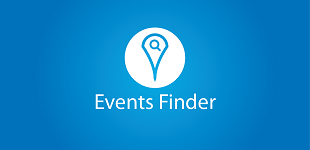
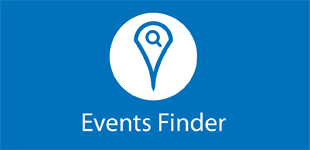
unified colours

Changed region(s): [[0.2613, 0.0267, 0.7258, 0.96]]

diff --git a/Event Finder Solution/Event Finder/Views/MainPage.xaml b/Event Finder Solution/Event Finder/Views/MainPage.xaml
@@ -36,11 +36,11 @@
 
             <ControlTemplate x:Key="PushPinStyle">
                 <UserControl  Height="150"  Width="150"  >
-                    <Border Height="130" Width="130" >
+                    <Border Height="111" Width="111" >
                         <Border.Background>
                             <ImageBrush Stretch="Fill" ImageSource="ms-appx:///Icons/pushpinleft.png"/>
                         </Border.Background>
-                        <Border Width="108.1" Height="106" Margin="0,0,-3,5"  CornerRadius="48" BorderThickness="7"  >
+                        <Border Width="110" Height="110" Margin="0,0,-3,5"  CornerRadius="48" BorderThickness="7"  >
                             <Border.Background>
                                 <ImageBrush ImageSource="{Binding pic_big}"/>
                             </Border.Background>
@@ -65,7 +65,7 @@
     </Page.Resources>
 
 
-    <Grid x:Name="MainGrid" Background="#0099CC">
+    <Grid x:Name="MainGrid" Background="#0071BB">
         <Grid.RowDefinitions>
             <RowDefinition Height="3*"/>
             <RowDefinition Height="29*"/>
@@ -76,7 +76,7 @@
 
         <Image Grid.Row="1"  HorizontalAlignment="Center" VerticalAlignment="Center" Height="53" Width="188" Source="ms-appx:///Icons/event_icon-01.png" Stretch="UniformToFill" Margin="589,10,589,633"/>
 
-        <Border Grid.Row="1" Grid.Column="0" Background="#FF1551C9" VerticalAlignment="Center" HorizontalAlignment="Center" Height="0" Margin="245,609,1121,87" Width="0"/>
+        <Border Grid.Row="1" Grid.Column="0" Background="#0071BB" VerticalAlignment="Center" HorizontalAlignment="Center" Height="0" Margin="245,609,1121,87" Width="0"/>
         <!--Progress Bar-->
         <ProgressBar x:Name="prog" MinWidth="1000"  HorizontalAlignment="Center" VerticalAlignment="Top" Foreground="White" Background="Transparent"  Height="20" MinHeight="8" FontSize="14" Width="{Binding ActualWidth, ElementName=MainGrid, Mode=OneWay}"  />
 
@@ -157,7 +157,7 @@
                                 <RowDefinition Height="60"/>
                                 <RowDefinition Height="*"/>
                             </Grid.RowDefinitions>
-                            <Border Background="#FF262323" Grid.RowSpan="2"  />
+                            <Border Background="#0071BB" Grid.RowSpan="2"  />
                             <TextBlock Text=" DESCRIPTION:" Grid.Row="0"  VerticalAlignment="Center"  FontSize="25" FontFamily="segoe UI light "/>
                             <ScrollViewer  Grid.Row="1" HorizontalScrollMode="Disabled">
                                 <TextBlock TextWrapping="Wrap" Width="210"   VerticalAlignment="Center" HorizontalAlignment="Center"  FontSize="20" ScrollViewer.VerticalScrollBarVisibility="Auto" Text="{Binding description}" FontFamily="segoe UI light "/>

diff --git a/Event Finder Solution/Event Finder/Views/LoginPage.xaml b/Event Finder Solution/Event Finder/Views/LoginPage.xaml
@@ -7,24 +7,24 @@
     xmlns:mc="http://schemas.openxmlformats.org/markup-compatibility/2006"
     xmlns:facebookControls="using:Facebook.Client.Controls"
     mc:Ignorable="d" Background="#0071BB">
-    
+
     <Page.Resources>
-		
-	</Page.Resources>
+
+    </Page.Resources>
 
     <Grid  Background="#0071BB">
         <!--Progress Bar-->
         <ProgressBar x:Name="prog" MinWidth="1000"  HorizontalAlignment="Center" VerticalAlignment="Top" Foreground="White" Background="Transparent"  Height="20" MinHeight="8" FontSize="14" Width="{Binding ActualWidth, ElementName=MainGrid, Mode=OneWay}"  />
 
-        
-       <!-- <Image Source="ms-appx:///Assets/SplashScreen.scale-180.png" /> -->
-		<Grid >
-			<Grid.RowDefinitions>
-				<RowDefinition Height="350*"/>
-				<RowDefinition Height="119*"/>
-			</Grid.RowDefinitions>
-            
+
+        <Image Source="ms-appx:///Assets/SplashScreen.scale-140.png" Height="300" Margin="308,209,333,209"/>
+        <Grid >
+            <Grid.RowDefinitions>
+                <RowDefinition Height="350*"/>
+                <RowDefinition Height="119*"/>
+            </Grid.RowDefinitions>
+
             <facebookControls:LoginButton Grid.Row="1"  x:Name="loginButton"  HorizontalAlignment="Center" VerticalAlignment="Center" SessionStateChanged="loginButton_SessionStateChanged" />
-        </Grid> 
+        </Grid>
     </Grid>
 </Page>

diff --git a/Event Finder Solution/Event Finder/Views/GridViewPage.xaml b/Event Finder Solution/Event Finder/Views/GridViewPage.xaml
@@ -39,7 +39,7 @@
 
             <GridView.ItemTemplate>
                 <DataTemplate>
-                    <Grid Background="#FF939598" Height="250" Width="250">
+                    <Grid Background="#0071BB" Height="250" Width="250">
                         <Image Source="{Binding pic_big}"  Stretch="UniformToFill"/>
                         <StackPanel Orientation="Vertical" Background="#CC000000" 
                     Height="90" VerticalAlignment="Bottom">
@@ -56,8 +56,6 @@
             <GridView.ItemsPanel>
                 <ItemsPanelTemplate>
                     <ItemsWrapGrid MaximumRowsOrColumns="2" VerticalAlignment="Center" HorizontalAlignment="Center" />
-
-
                 </ItemsPanelTemplate>
             </GridView.ItemsPanel>
 

diff --git a/Event Finder Solution/Event Finder/Views/ItemDetailPage1.xaml b/Event Finder Solution/Event Finder/Views/ItemDetailPage1.xaml
@@ -137,7 +137,7 @@
                     <RowDefinition Height="*"/>
                 </Grid.RowDefinitions>
 
-                <Border Width="300" Grid.RowSpan="2" Background="#FF3C3838"/>
+                <Border Width="300" Grid.RowSpan="2" Background="#0071BB"/>
 
                 <TextBlock Text="Friends Going:" HorizontalAlignment="Center" Grid.Row="0"  VerticalAlignment="Center"  FontSize="40" FontFamily=" segoe UI light "/>
 
